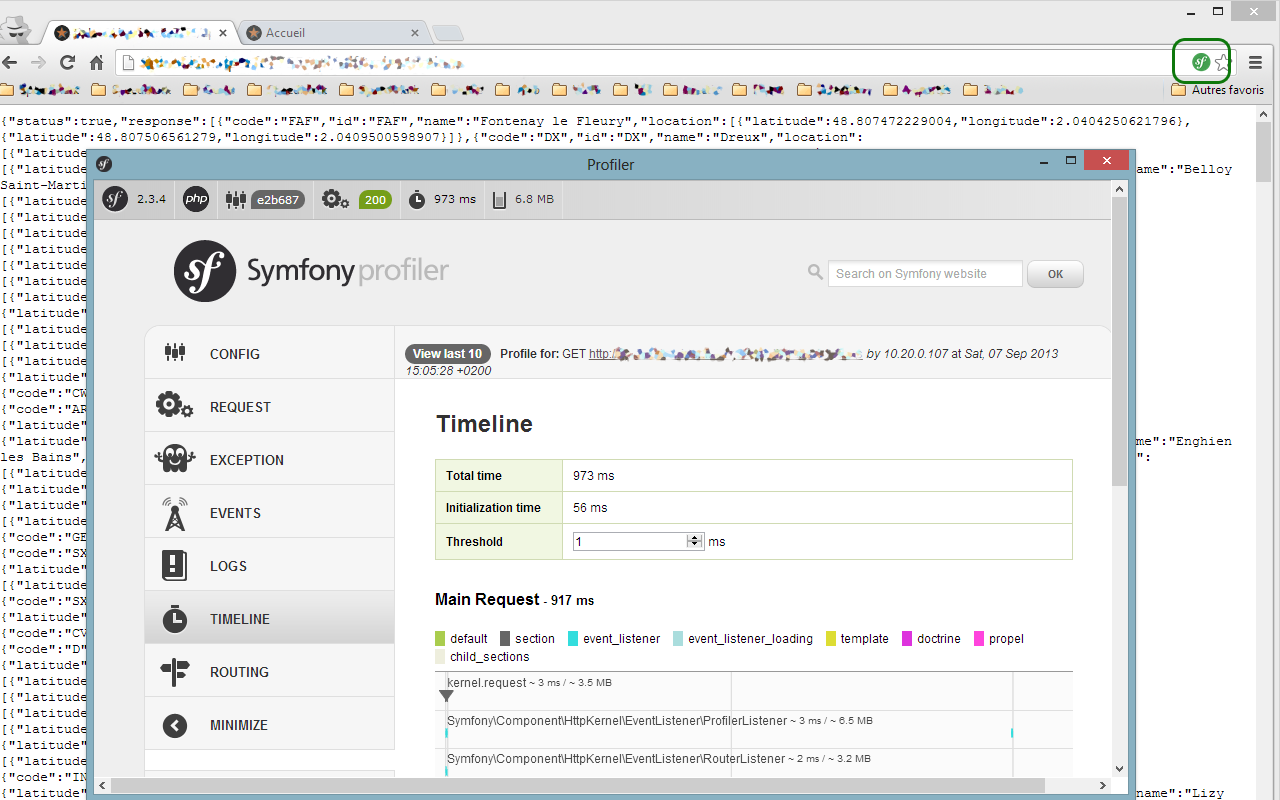
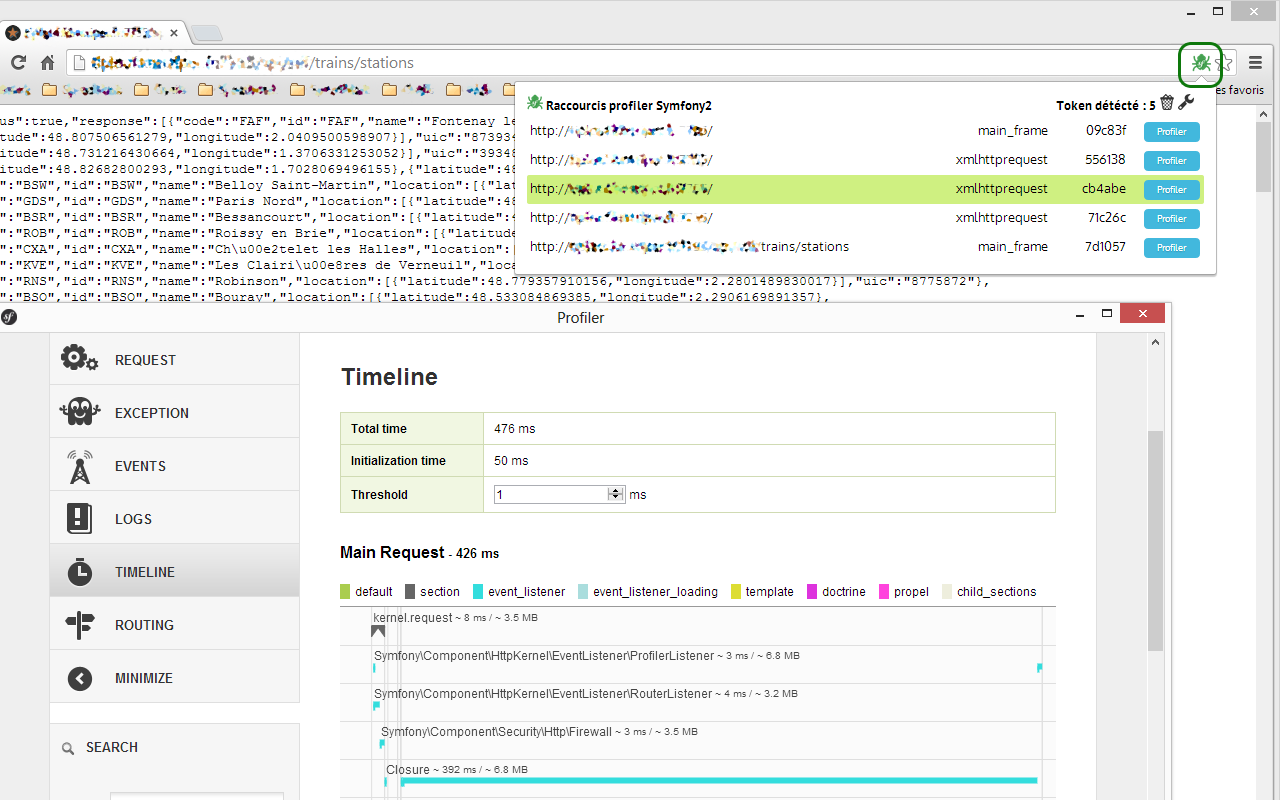
update Promo images

Changed region(s): [[0.0, 0.0, 1.0, 1.0], [0.5312, 0.6562, 0.5625, 0.6875]]

diff --git a/sf2Debugger/js/configuration.js b/sf2Debugger/js/configuration.js
@@ -24,15 +24,15 @@
     ];
 
     var startup = function () {
-        getConfiguration(function (configurations) {
-            if (typeof configurations !== 'undefined' && configurations.length <= 0) {
-                storeConfiguration(defaultValues, function () {
-                });
-            } else if (typeof configurations == 'undefined') {
-                storeConfiguration(defaultValues, function () {
-                });
-            }
-        });
+            getConfiguration(function (configurations) {
+                if (typeof configurations !== 'undefined' && configurations.length <= 0) {
+
+                } else if (typeof configurations == 'undefined') {
+                    storeConfiguration({}, function () {
+                        chrome.tabs.create({'url': 'options.html'});
+                    });
+                }
+            });
     };
 
     var getDefaultValue = function (key) {
@@ -95,10 +95,18 @@
      */
     var storeConfiguration = function (data, callback) {
         console.dir(data);
-        chrome.storage.sync.set({'configuration': data}, function () {
-            console.debug('Configuration saved');
-            callback.apply(this);
-        });
+        if(data == null){
+            chrome.storage.sync.remove('configuration',function(){
+                console.debug('Configuration cleared');
+                callback.apply(this);
+            })
+        }else{
+            chrome.storage.sync.set({'configuration': data}, function () {
+                console.debug('Configuration saved');
+                callback.apply(this);
+            });
+        }
+
     };
 
     window.getConfigurationKey = getConfigurationKey;

diff --git a/sf2Debugger/js/tokenSelection.js b/sf2Debugger/js/tokenSelection.js
@@ -7,8 +7,8 @@
     var templates = {
         tokenList        : _.template('<div class="tokenHeader">' +
             '<span>'+chrome.i18n.getMessage('tokenDetected')+' : <b>{{tokenCount}}</b></span> ' +
-            '<span title="Clear" class="icon icon_clear action-clear"></span> ' +
-            '<span title="refresh" class="icon icon_refresh action-refresh"></span> ' +
+            '<span title="Clear" class="icon icon_clear{{iconClear}} action-clear"></span> ' +
+            '<span title="Options" class="icon icon_config action-config"></span> ' +
             '</div><ul class="tokenList">{{ tokenList }}</ul>'),
         tokenListItem    : _.template('' +
             '<li class="tokenListItem">' +
@@ -38,7 +38,13 @@
         });
 
         var dom = document.getElementById('tokenList');
-        dom.innerHTML = templates.tokenList({tokenList: tokenList,tokenCount:tokens.length});
+        var iconClear = '_full' ;
+        if(tokens.length>0){
+            iconClear = '_full'
+        }else{
+            iconClear = '_empty'
+        }
+        dom.innerHTML = templates.tokenList({tokenList: tokenList,tokenCount:tokens.length,iconClear:iconClear});
 
         //manage click on openProfiler button
         $(dom).on('click','.open-profiler',function(jEvent){
@@ -56,8 +62,8 @@
             }
         });
 
-        $(dom).on('click','.action-refresh',function(jEvent){
-            startup();
+        $(dom).on('click','.action-config',function(jEvent){
+            chrome.tabs.create({'url': 'options.html'});
         });
 
         $(dom).on('click','.action-clear',function(jEvent){

diff --git a/sf2Debugger/js/options.js b/sf2Debugger/js/options.js
@@ -26,8 +26,9 @@
      */
     var initForm = function (form, data) {
         _.each(data, function (item) {
-            console.debug('Setting form field ' + item.name + ' with value:' + item.value);
-            form.find('*[name=' + item.name + ']').val(item.value);
+            var formValue = unCleanDataForForm(item.value);
+            console.debug('Setting form field ' + item.name + ' with value:' + formValue);
+            form.find('*[name=' + item.name + ']').val(formValue);
         });
     };
 
@@ -105,6 +106,19 @@
         }
         if (data == 'false') {
             return false;
+        }
+        return data ;
+    };
+
+    var unCleanDataForForm = function(data){
+        if (data == null) {
+            return 'null';
+        }
+        if (data == true) {
+            return 'true';
+        }
+        if (data == false) {
+            return 'false';
         }
         return data ;
     };

diff --git a/sf2Debugger/css/tokenSelection.css b/sf2Debugger/css/tokenSelection.css
@@ -117,8 +117,6 @@ body{
     display: inline-block;
     height:16px;
     width:16px;
-    padding:2px;
-    margin-bottom:-4px;
     background-repeat: no-repeat;
     background-position: center center;
     border-radius: 2px;
@@ -134,12 +132,15 @@ body{
 }
 
 
-.icon.icon_refresh {
-    background-image: url('Refresh-icon.png');
+.icon.icon_config {
+    background-image: url('config.png');
 }
 
-.icon.icon_clear {
-    background-image: url('Recycle-Bin-icon.png');
+.icon.icon_clear_full {
+     background-image: url('clear-full.png');
+ }
+.icon.icon_clear_empty {
+    background-image: url('clear-empty.png');
 }
 
 .icon.icon_app {

diff --git a/sf2Debugger/js/bg.js b/sf2Debugger/js/bg.js
@@ -311,7 +311,7 @@
         };
         var filters_sub_frame = {
             urls: ["<all_urls>"],
-            types: ["xmlhttprequest"]
+            types: ["xmlhttprequest","sub_frame"]
         };
         chrome.webRequest.onHeadersReceived.addListener(sub_frame, filters_sub_frame, ['responseHeaders']);
     }
